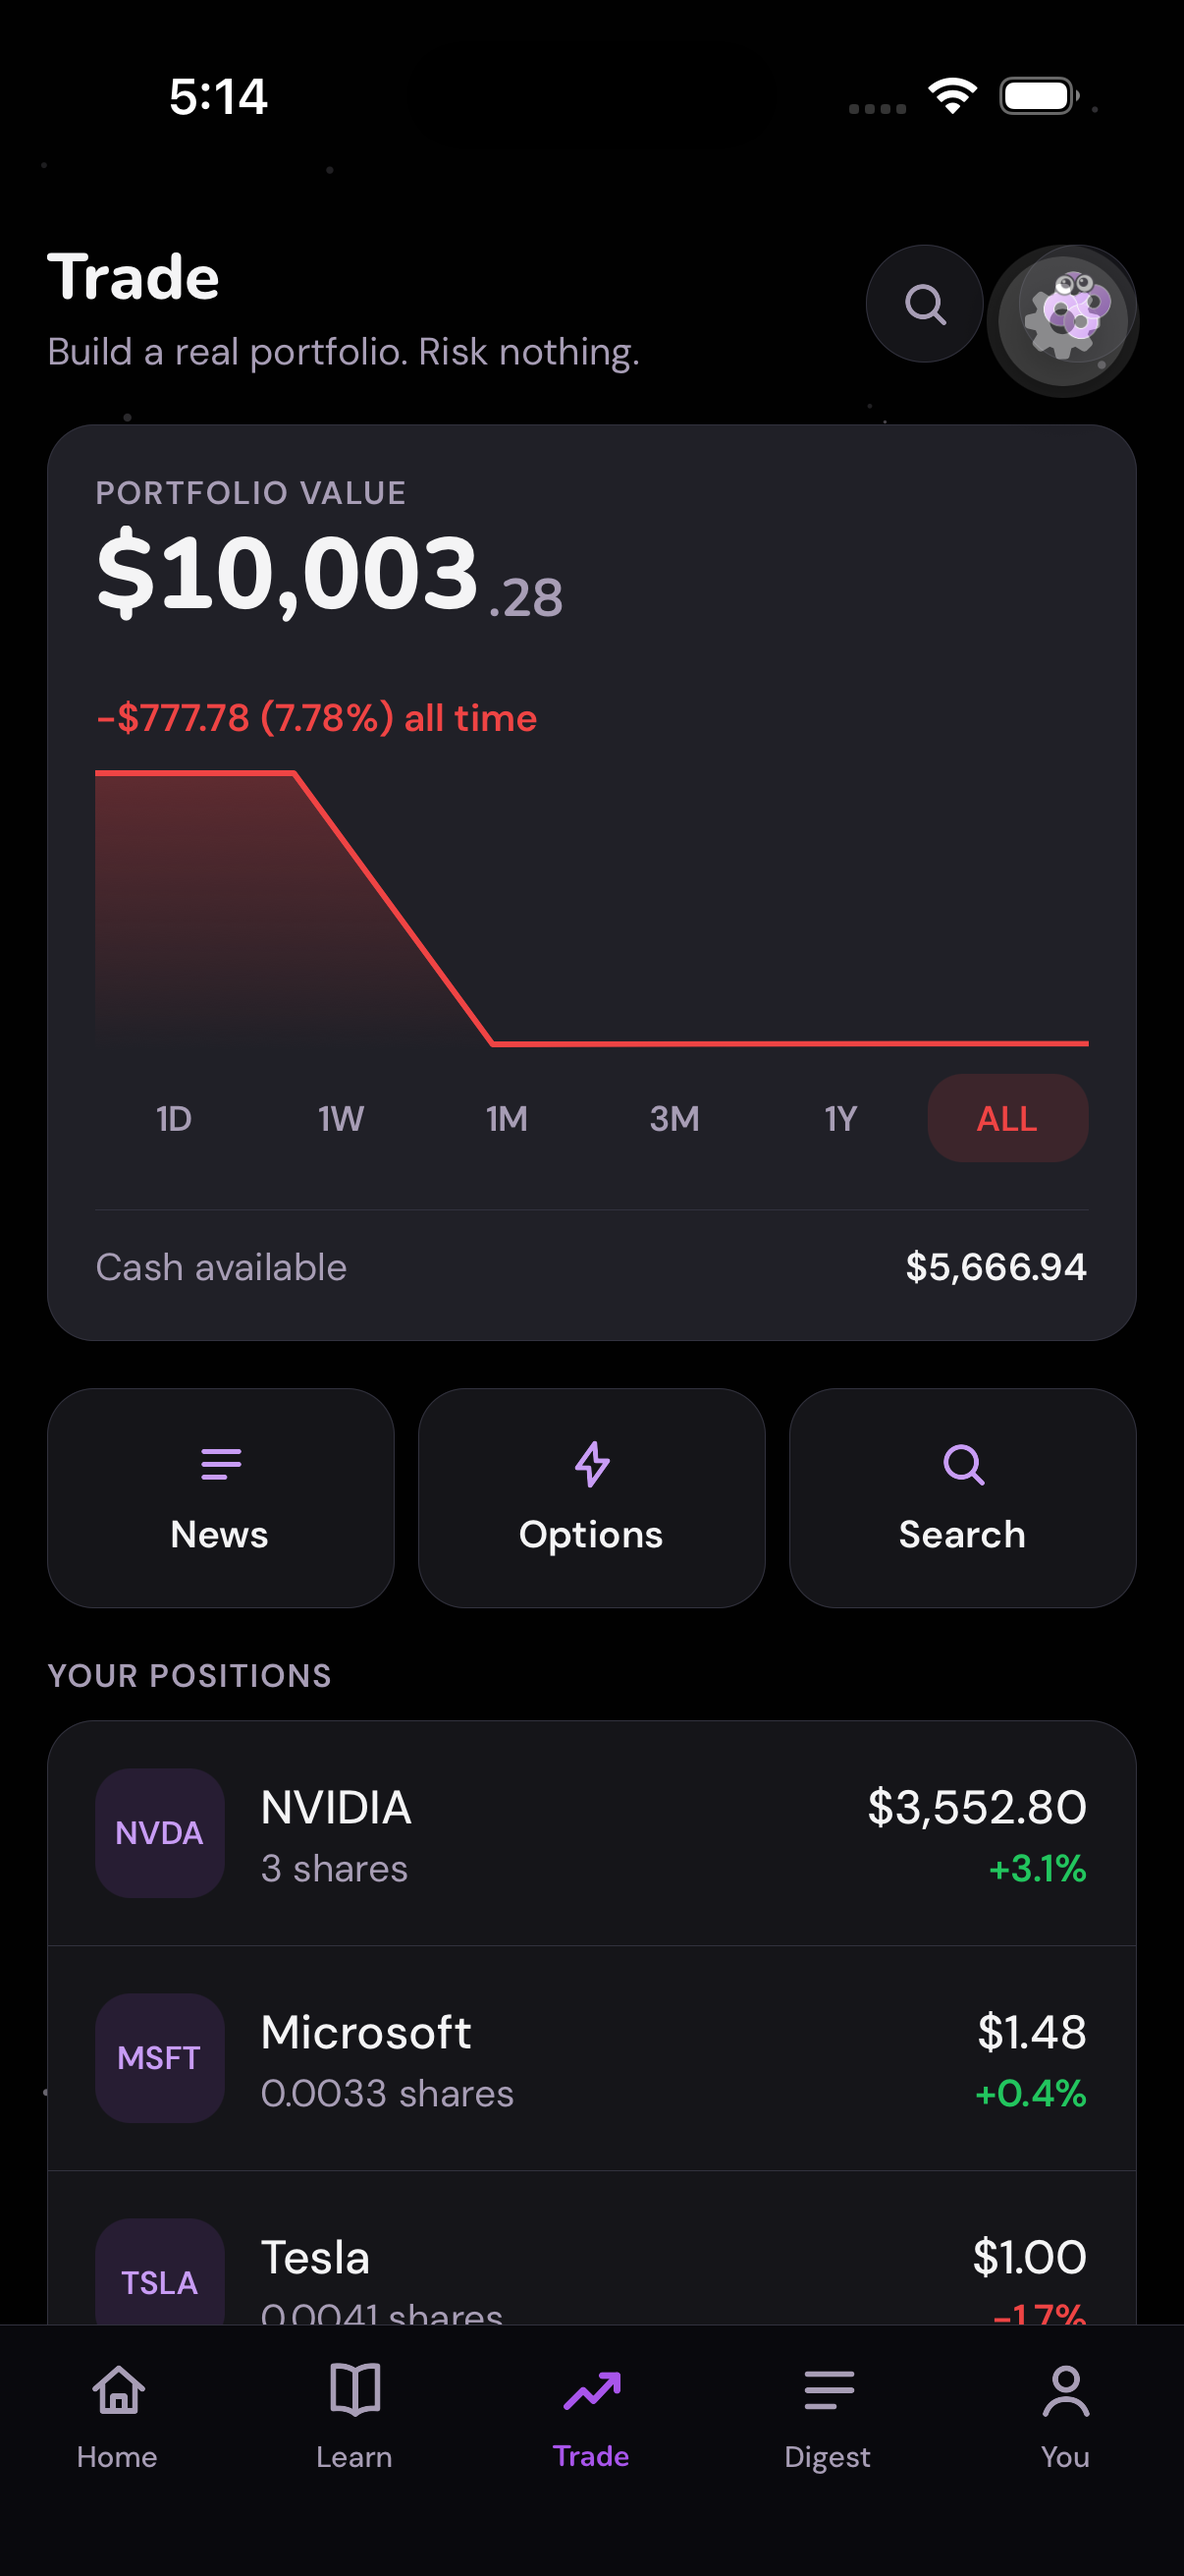
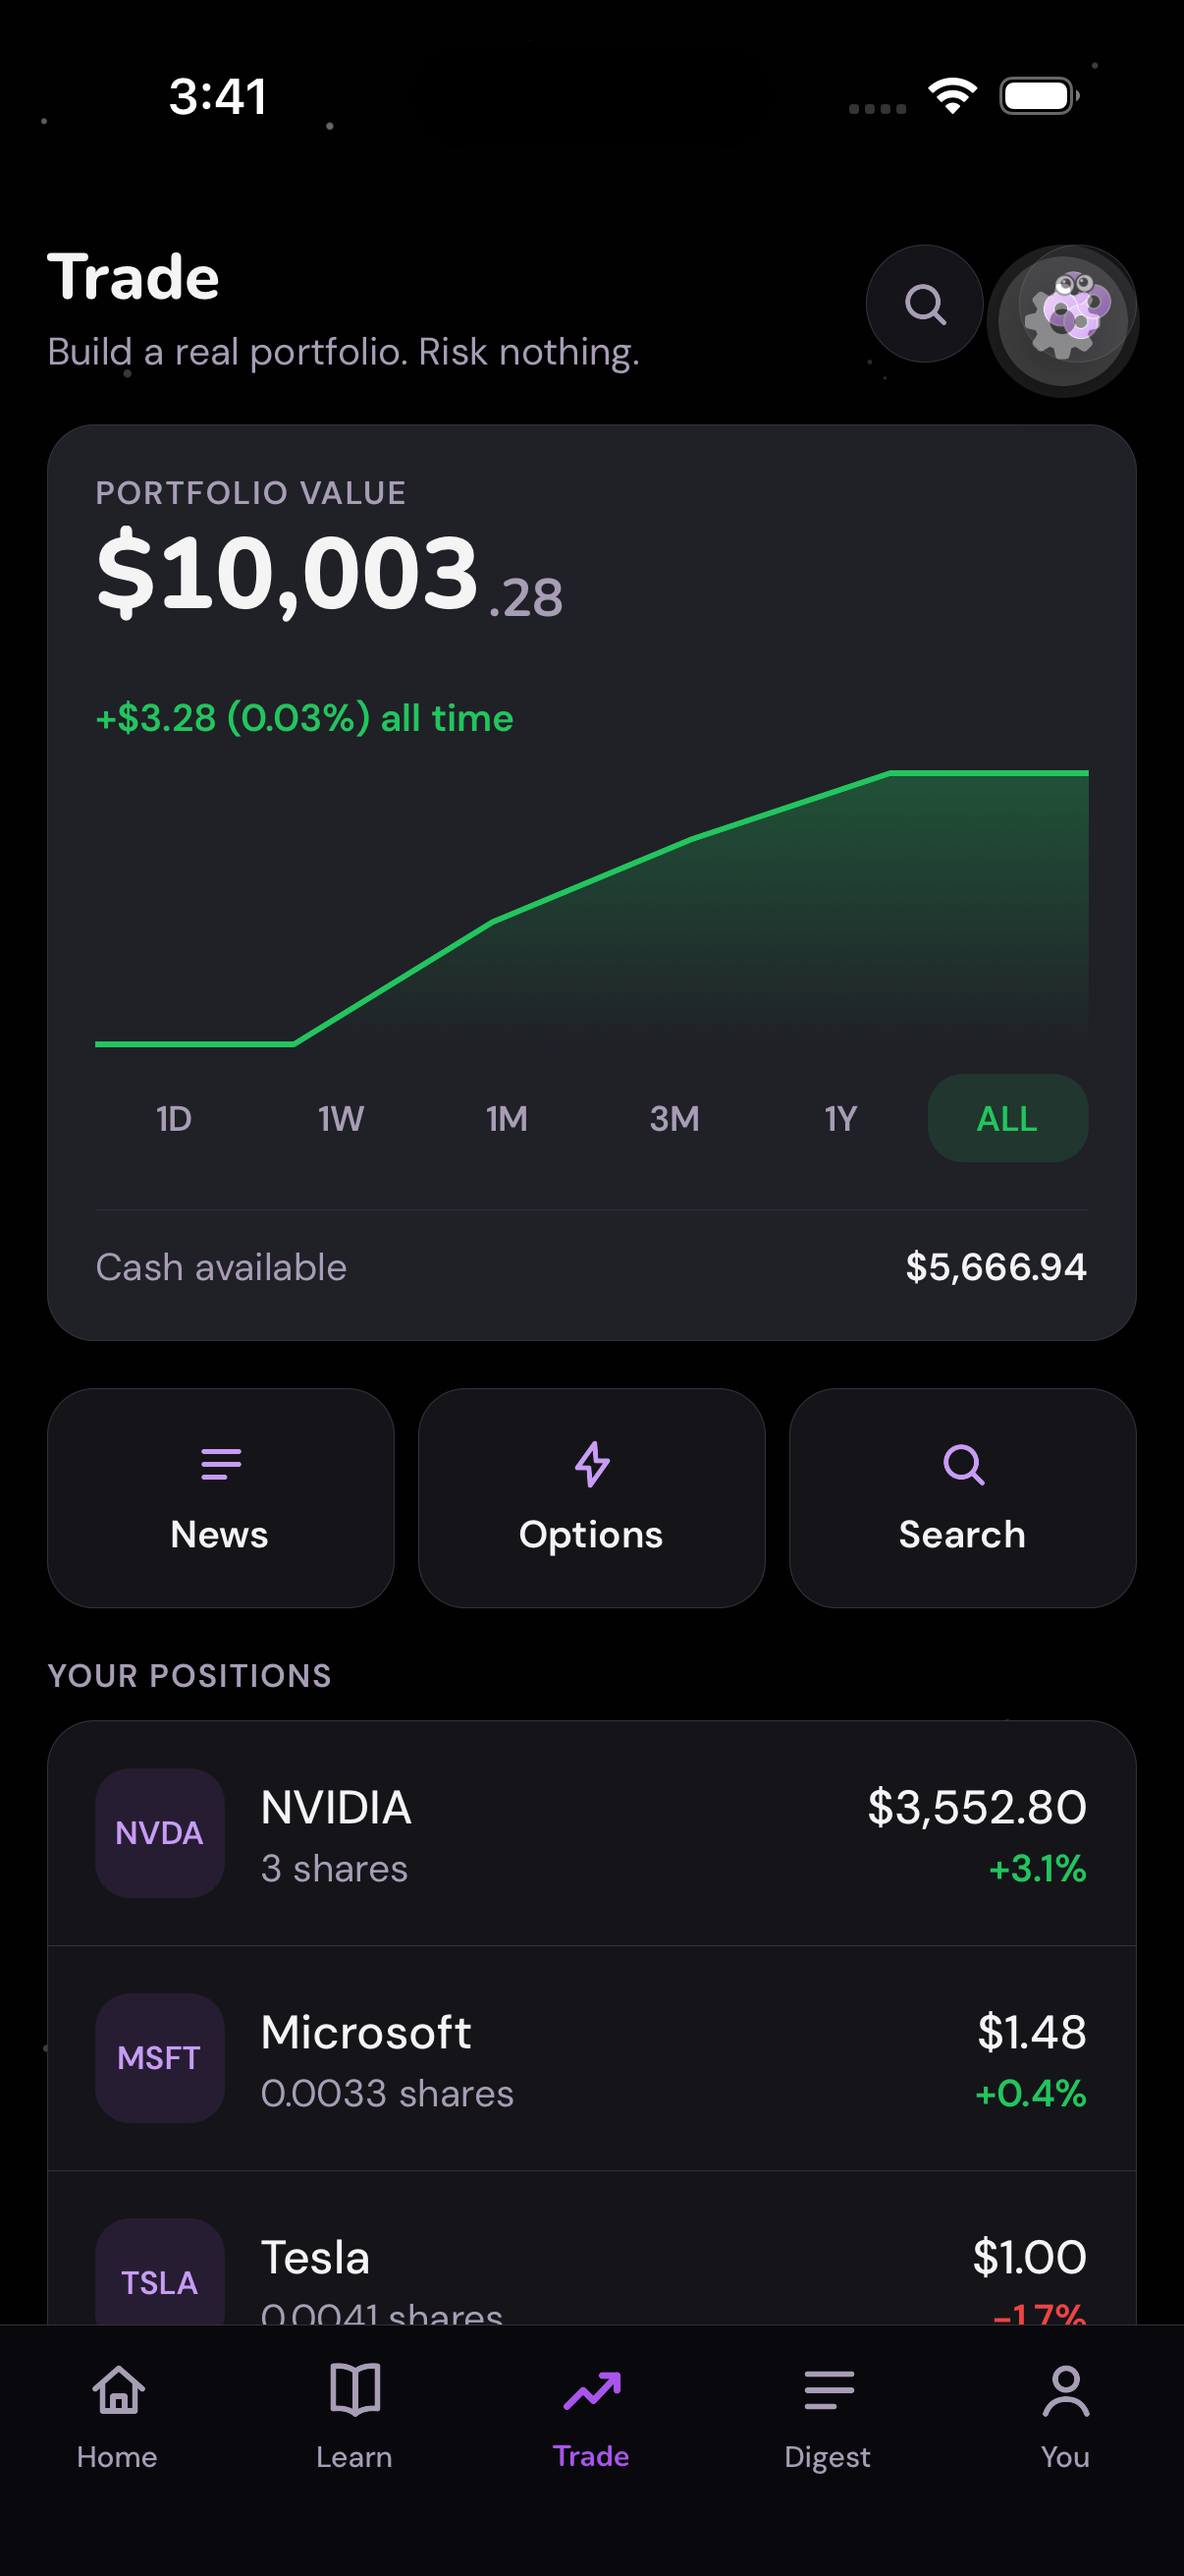
fix(portfolio): chart and headline now value the same portfolio (C100)
`portfolioValue()` counts open option contracts at cost. `snapshot()` -- which
writes valueHistory, which is what the chart plots -- counted only cash and
shares. Two formulas for one number, disagreeing by exactly the open premium.

Measured on the real seeded store:

  equity (what snapshot recorded)      9222.22
  + one contract at cost               +781.06
  headline (what the user was shown)  10003.28

So the Trade tab rendered "-$777.78 (7.78%) all time" beneath a portfolio that
had lost nothing, PERMANENTLY, for anyone who ever opened a contract. The
comment on portfolioValue already describes this bug and fixes it THERE; the fix
never reached snapshot() because the value was computed twice.

Also: openDerivative wrote no snapshot at all, so the one event most likely to
move the line left no point -- and the NEXT trade recorded the reduced cash with
the contract that consumed it invisible. That is how the drop became a loss.

That screen is App Store screenshot 3, captioned "Practice investing. Risk
nothing." over a red line falling off a cliff. Repaired the stored history and
reshot: now +$3.28 (0.03%) on a rising green line, and the chart agrees with the
headline. scripts/portfolio-snapshot-regression.mjs pins all of it.

ALSO IN THIS COMMIT

C98 made loud: apiOriginMissing() throws `no_api_origin` BEFORE the fetch in
both apiGet and askAtlas. A production build with no EXPO_PUBLIC_API_URL
[…]

diff --git a/src/lib/store.ts b/src/lib/store.ts
@@ -189,14 +189,33 @@ export const XP_DAILY_GOAL = 50;
  * EVERY award funnels through here. If a caller ever writes `xp` directly, lifetime and weekly
  * totals drift apart and the league silently ranks people on stale numbers.
  */
-/** Append a portfolio-value snapshot. Capped so a heavy trader cannot grow the persisted blob
- *  without bound; 500 points is far more than any chart draws. */
+/**
+ * Append a portfolio-value snapshot. Capped so a heavy trader cannot grow the persisted blob
+ * without bound; 500 points is far more than any chart draws.
+ *
+ * MUST VALUE THE SAME THINGS `portfolioValue()` DOES. It did not, and that was a real defect:
+ * `portfolioValue` counts open option contracts at cost, this counted only cash and shares. So the
+ * headline said $10,003.28 while the chart's newest point sat at $9,222.22 — the exact premium of
+ * one open contract, $781.06, missing from one of them. The Trade tab then rendered
+ * "−$777.78 (7.78%) all time" underneath a portfolio that had not lost anything, permanently, for
+ * anyone who ever opened a contract.
+ *
+ * The comment on `portfolioValue` already describes this bug and fixes it THERE. The fix never
+ * reached here, because the value was computed twice from two different formulas. Same rule now
+ * lives in both: contracts count at COST, so an option contributes a return of exactly zero until
+ * it can be priced — understated, never invented.
+ *
+ * `derivatives` is a parameter rather than read off `s` because `openDerivative` snapshots with the
+ * list it is in the middle of appending to; reading `s.derivatives` there would miss the new one.
+ */
 const snapshot = (
-  s: { valueHistory: { t: number; v: number }[] },
+  s: { valueHistory: { t: number; v: number }[]; derivatives: { premium: number }[] },
   cash: number,
   positions: Record<string, number>,
+  derivatives: { premium: number }[] = s.derivatives,
 ) => {
-  const v = Object.entries(positions).reduce((sum, [sym, sh]) => sum + sh * priceOf(sym), cash);
+  const equity = Object.entries(positions).reduce((sum, [sym, sh]) => sum + sh * priceOf(sym), cash);
+  const v = derivatives.reduce((sum, d) => sum + d.premium, equity);
   return [...s.valueHistory, { t: Date.now(), v }].slice(-500);
 };
 
@@ -553,10 +572,17 @@ export const useApp = create<AppState>()(
           if (!s.isPro) return s;
           if (s.derivativeTrades >= PRO_DERIVATIVE_PREVIEW) return s;
           if (d.premium > s.cash) return s;
+          const derivatives = [...s.derivatives, { ...d, id: `${d.sym}-${d.kind}-${d.strike}-${s.derivativeTrades}` }];
           return {
             cash: s.cash - d.premium,
             derivativeTrades: s.derivativeTrades + 1,
-            derivatives: [...s.derivatives, { ...d, id: `${d.sym}-${d.kind}-${d.strike}-${s.derivativeTrades}` }],
+            derivatives,
+            // Opening a contract wrote no snapshot at all, so the chart had no point for the one
+            // event most likely to move the line. Worse, the NEXT trade's snapshot picked up the
+            // reduced cash while the contract that consumed it was invisible, which is how the
+            // drop got recorded as a loss. Snapshot here, with the list including the new contract.
+            valueHistory: snapshot(s, s.cash - d.premium, s.positions, derivatives),
+            activeDays: withToday(s.activeDays),
           };
         }),
 

diff --git a/src/lib/api.ts b/src/lib/api.ts
@@ -26,6 +26,22 @@ export function apiBase(): string {
   return host ? `http://${host}` : '';
 }
 
+/**
+ * True when this build has nowhere to send a request.
+ *
+ * THIS IS THE C98 FAILURE, MADE LOUD. On native, `hostUri` exists only while Metro is attached, so
+ * a production or TestFlight build with no `EXPO_PUBLIC_API_URL` resolves its base to `''` and
+ * every fetch goes to a relative path with nothing to resolve against. Atlas, market data and
+ * options all die at once — and NONE of it reproduces in development, because development always
+ * has Metro. The bug is invisible in exactly the environment it is written in.
+ *
+ * Surfacing it as its own code means a misconfigured build says "misconfigured" instead of
+ * impersonating a network outage, and the check is cheap enough to run on every call.
+ */
+export function apiOriginMissing(): boolean {
+  return Platform.OS !== 'web' && apiBase() === '';
+}
+
 /** Thrown with the route's error code, never a raw upstream body. */
 export class ApiError extends Error {
   constructor(public code: string) {
@@ -49,6 +65,10 @@ export function apiHeaders(extra?: Record<string, string>): Record<string, strin
 }
 
 export async function apiGet<T>(path: string): Promise<T> {
+  // Fail before the fetch, not after it. A relative URL on native does not produce a clean error
+  // — it produces something that reads like the user's connection is down, which sends everyone
+  // hunting the wrong problem.
+  if (apiOriginMissing()) throw new ApiError('no_api_origin');
   const res = await fetch(`${apiBase()}${path}`, { headers: apiHeaders() });
   const data = await res.json().catch(() => null);
   if (!res.ok) {

diff --git a/src/app/auth.tsx b/src/app/auth.tsx
@@ -223,6 +223,10 @@ export default function Auth() {
   );
 }
 
+/** GoogleSigninButton Size.Wide. Apple's button is matched to it so the pair aligns. */
+const VENDOR_W = 312;
+const VENDOR_H = 48;
+
 const styles = StyleSheet.create({
   safe: { flex: 1 },
   content: { flex: 1, justifyContent: 'center', padding: Spacing.four, gap: Spacing.four },
@@ -230,10 +234,13 @@ const styles = StyleSheet.create({
   title: { fontSize: FontSize.title, textAlign: 'center', marginTop: Spacing.two },
   sub: { textAlign: 'center', maxWidth: 280 },
   // Apple's component draws itself and REQUIRES explicit dimensions -- given none it lays out at
-  // zero height and silently disappears. 52 matches the old pill's 15pt padding + text.
-  vendorButton: { width: '100%', height: 52 },
-  // GoogleSigninButton takes a fixed `size` rather than a style width, so it is centred rather
-  // than stretched; forcing it wider distorts the mark and breaks Google's branding rules.
+  // zero height and silently disappears.
+  //
+  // The width is matched to GoogleSigninButton rather than to the screen. Google's button takes a
+  // fixed `size` enum, not a style width, and stretching it distorts the mark and breaks Google's
+  // branding rules -- so the only way to get two provider buttons that line up is to bring APPLE
+  // down to Google's width. 312x48 is Size.Wide.
+  vendorButton: { width: VENDOR_W, height: VENDOR_H, alignSelf: 'center' },
   googleWrap: { alignItems: 'center' },
   vendorBusy: { alignItems: 'center', marginTop: Spacing.two },
   authError: { textAlign: 'center', marginTop: Spacing.two },

diff --git a/src/lib/atlas-chat.ts b/src/lib/atlas-chat.ts
@@ -14,7 +14,7 @@
  */
 import Constants from 'expo-constants';
 
-import { apiHeaders } from './api';
+import { apiHeaders, apiOriginMissing } from './api';
 import { Platform } from 'react-native';
 
 export type ChatTurn = { role: 'user' | 'model'; content: string };
@@ -43,6 +43,10 @@ export class ChatError extends Error {
  * about what the network is doing.
  */
 export async function askAtlas(messages: ChatTurn[], signal?: AbortSignal): Promise<string> {
+  // Same C98 guard as `apiGet`. Atlas is the most visible casualty of a missing origin — a
+  // reviewer taps the mascot, nothing happens, and it reads as the app being broken rather than
+  // misconfigured.
+  if (apiOriginMissing()) throw new ChatError('no_api_origin');
   const res = await fetch(`${baseUrl()}/api/chat`, {
     method: 'POST',
     headers: apiHeaders({ 'Content-Type': 'application/json' }),

diff --git a/refs/DEPLOY.md b/refs/DEPLOY.md
@@ -1,0 +1,61 @@
+# Deploying — read before any production build
+
+`eas.json` ships with **`EXPO_PUBLIC_API_URL` deliberately EMPTY** in the `preview` and `production`
+profiles. That is not an oversight; it is the fix for C98.
+
+## What C98 was
+
+`apiBase()` (`src/lib/api.ts`) and `baseUrl()` (`src/lib/atlas-chat.ts`) resolve in this order:
+
+1. `EXPO_PUBLIC_API_URL`
+2. `Constants.expoConfig.hostUri` — the attached Metro dev server
+3. `''`
+
+In development step 2 always hits, so everything works and nothing looks wrong. In a production or
+TestFlight build there is no Metro, `hostUri` is `undefined`, the base becomes `''`, and on native a
+relative URL has nothing to resolve against.
+
+**Atlas, market data and options all fail at once, and the failure cannot be reproduced in
+development by construction.**
+
+## Why the value is empty rather than a placeholder
+
+A plausible-looking wrong URL fails as a network error, which sends you debugging connectivity. An
+empty value trips `apiOriginMissing()` and every call throws `no_api_origin` before the fetch — a
+code that names its own cause. Empty is louder than wrong.
+
+## The sequence
+
+1. **Deploy the API routes.** `app.json` already sets `web.output: "server"`, and the routes exist
+   at `src/app/api/{chat,market,options}+api.ts`.
+
+   ```
+   npx expo export --platform web
+   npx eas deploy --prod
+   ```
+
+   That prints the EAS Hosting origin, e.g. `https://euphoria-native.expo.app`.
+
+2. **Set the server-side secrets on the deployment** — these are NOT `EXPO_PUBLIC_` and must never
+   be bundled into the client:
+
+   ```
+   npx eas env:create --environment production --name GEMINI_API_KEY       --value <...>
+   npx eas env:create --environment production --name POLYGON_API_KEY      --value <...>
+   npx eas env:create --environment production --name ALPHAVANTAGE_API_KEY --value <...>
+   npx eas env:create --environment production --name TRADIER_TOKEN        --value <...>
+   ```
+
+3. **Put the origin from step 1 into `eas.json`** under both `preview.env` and `production.env`.
+
+4. **Verify on a real build, never on the simulator.** Install the TestFlight build with no Metro
+   running and open Atlas, the Trade tab and an options lesson. If any of them throws
+   `no_api_origin`, step 3 did not take.
+
+## Other build facts
+
+- Bundle id `com.euphoriainv.euphoria` · team `9SS423KXF5` · ASC app `6761808087`
+- `android.package` is still `com.euphoria.native` on purpose — Google Play is a separate listing
+  and nobody has verified whether one exists
+- A simulator build proves NOTHING about entitlements (C89): it is ad-hoc signed with an empty
+  entitlements dict, so `applesignin` only becomes checkable on a device or archive build
